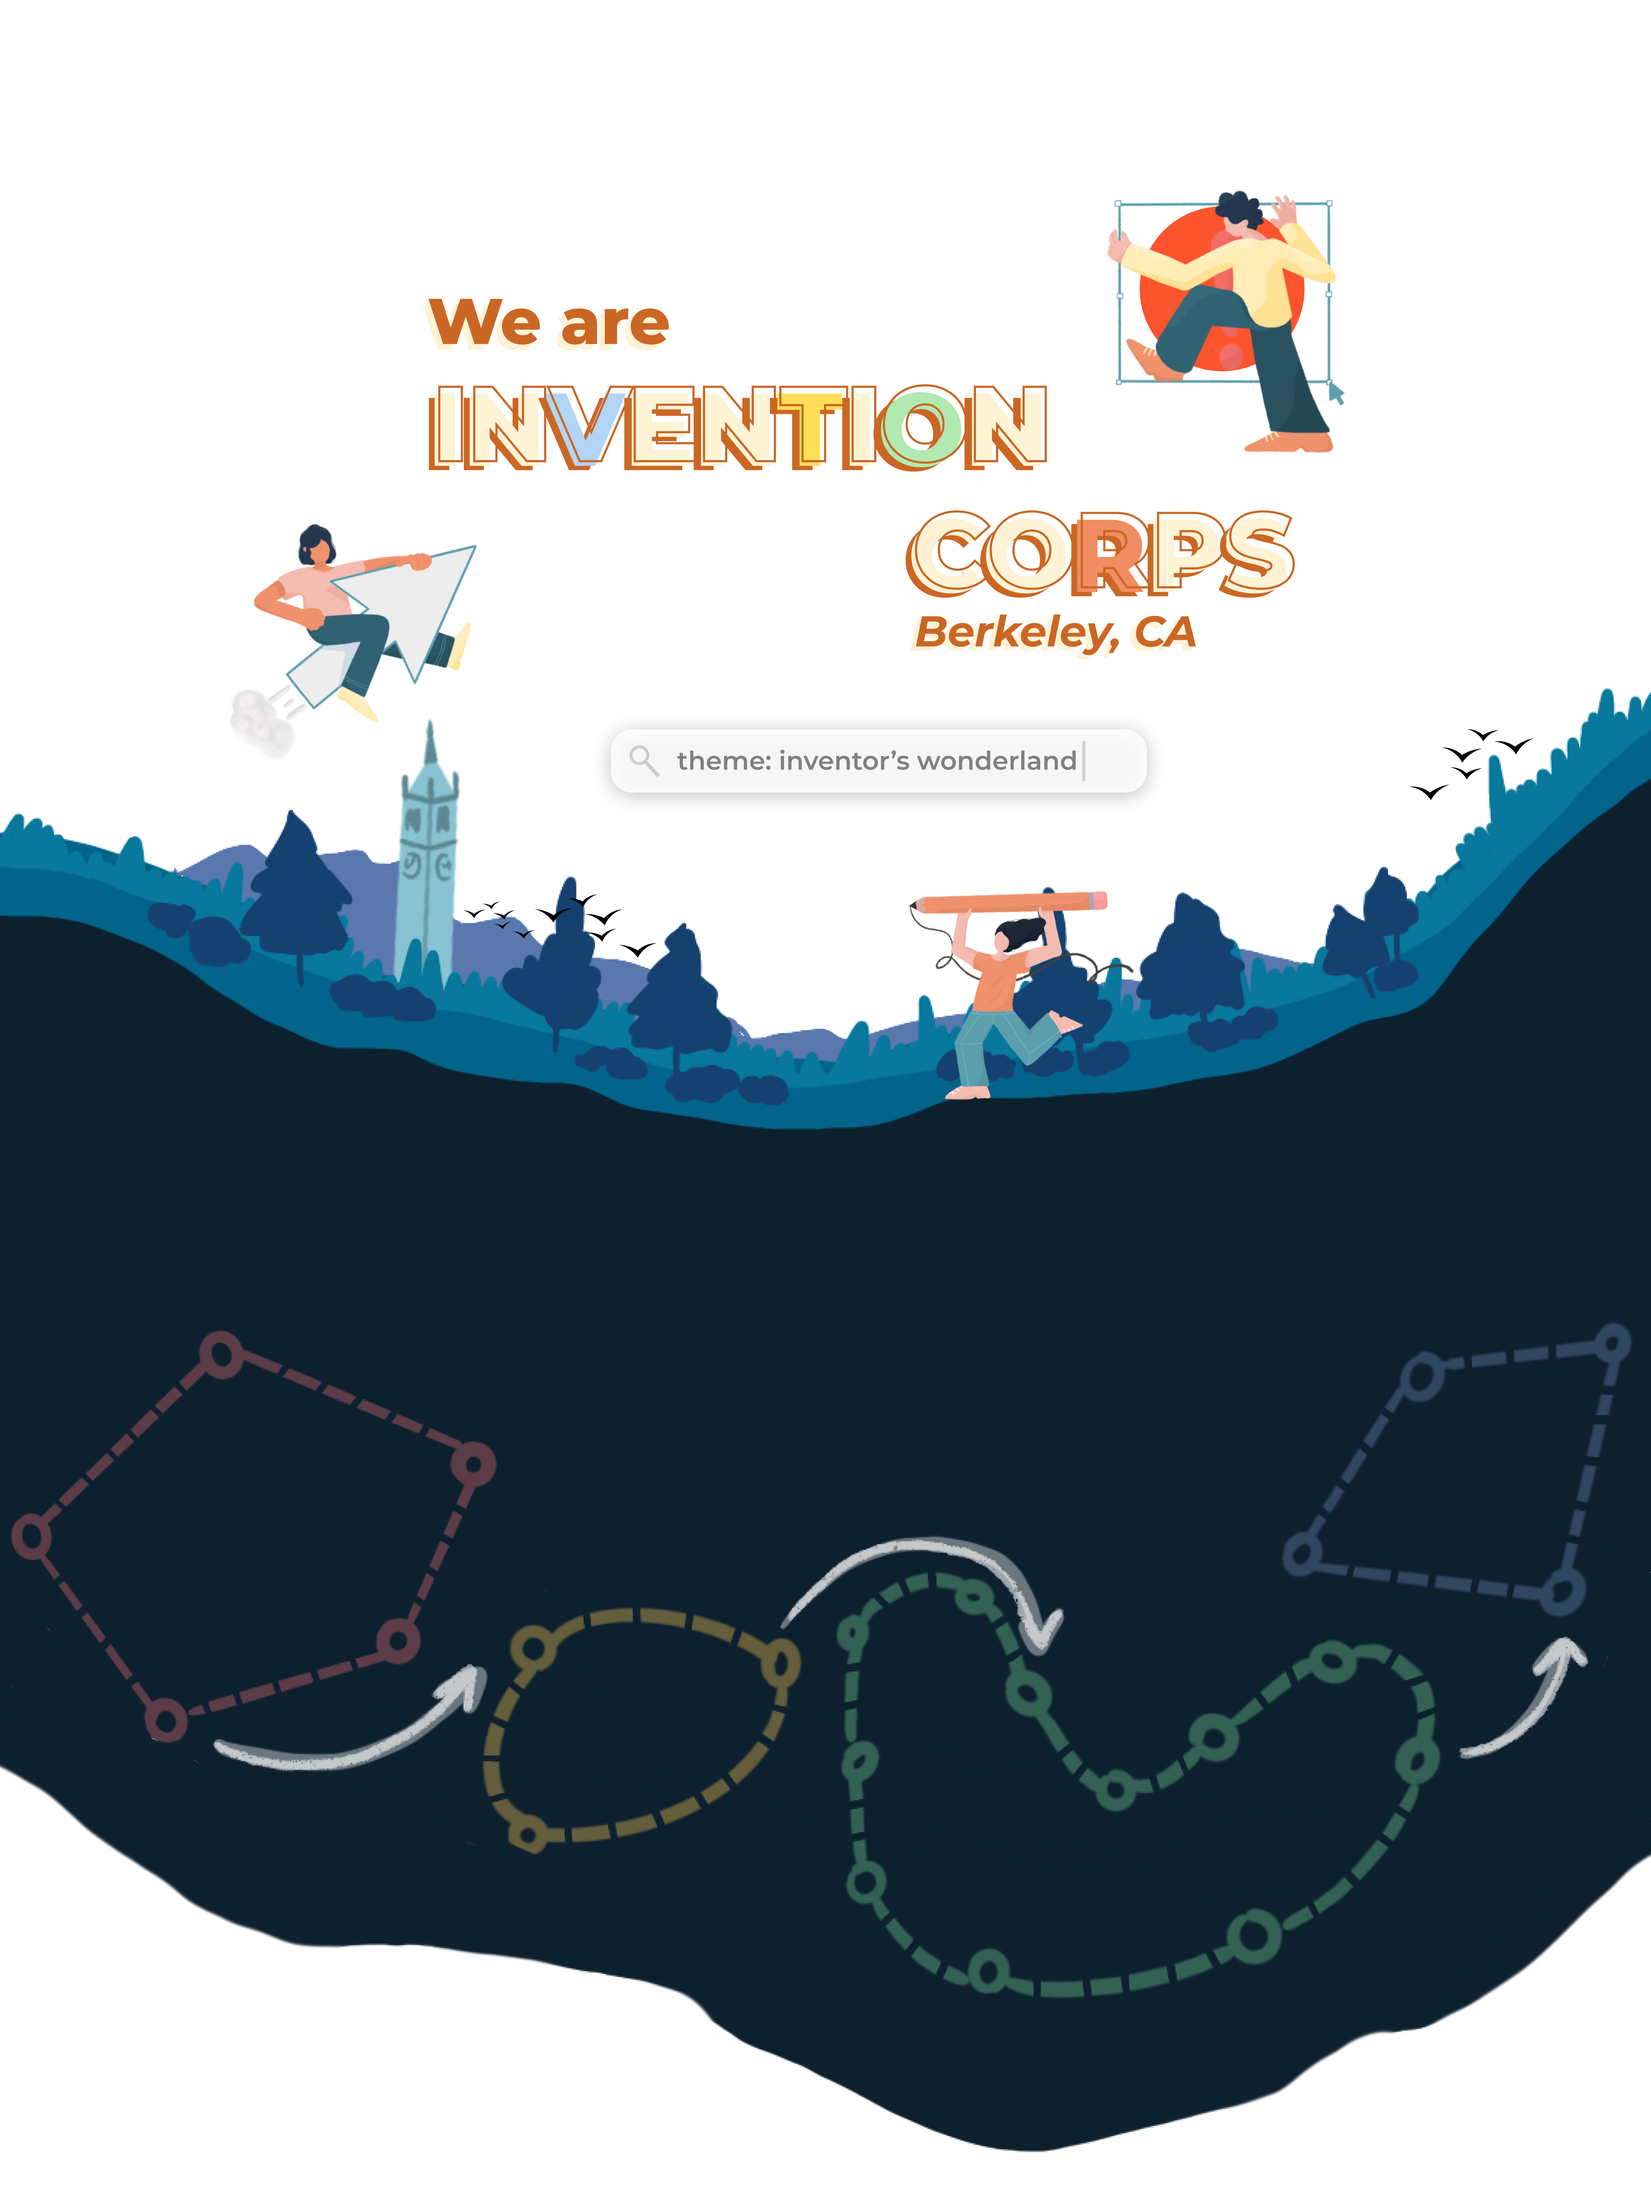
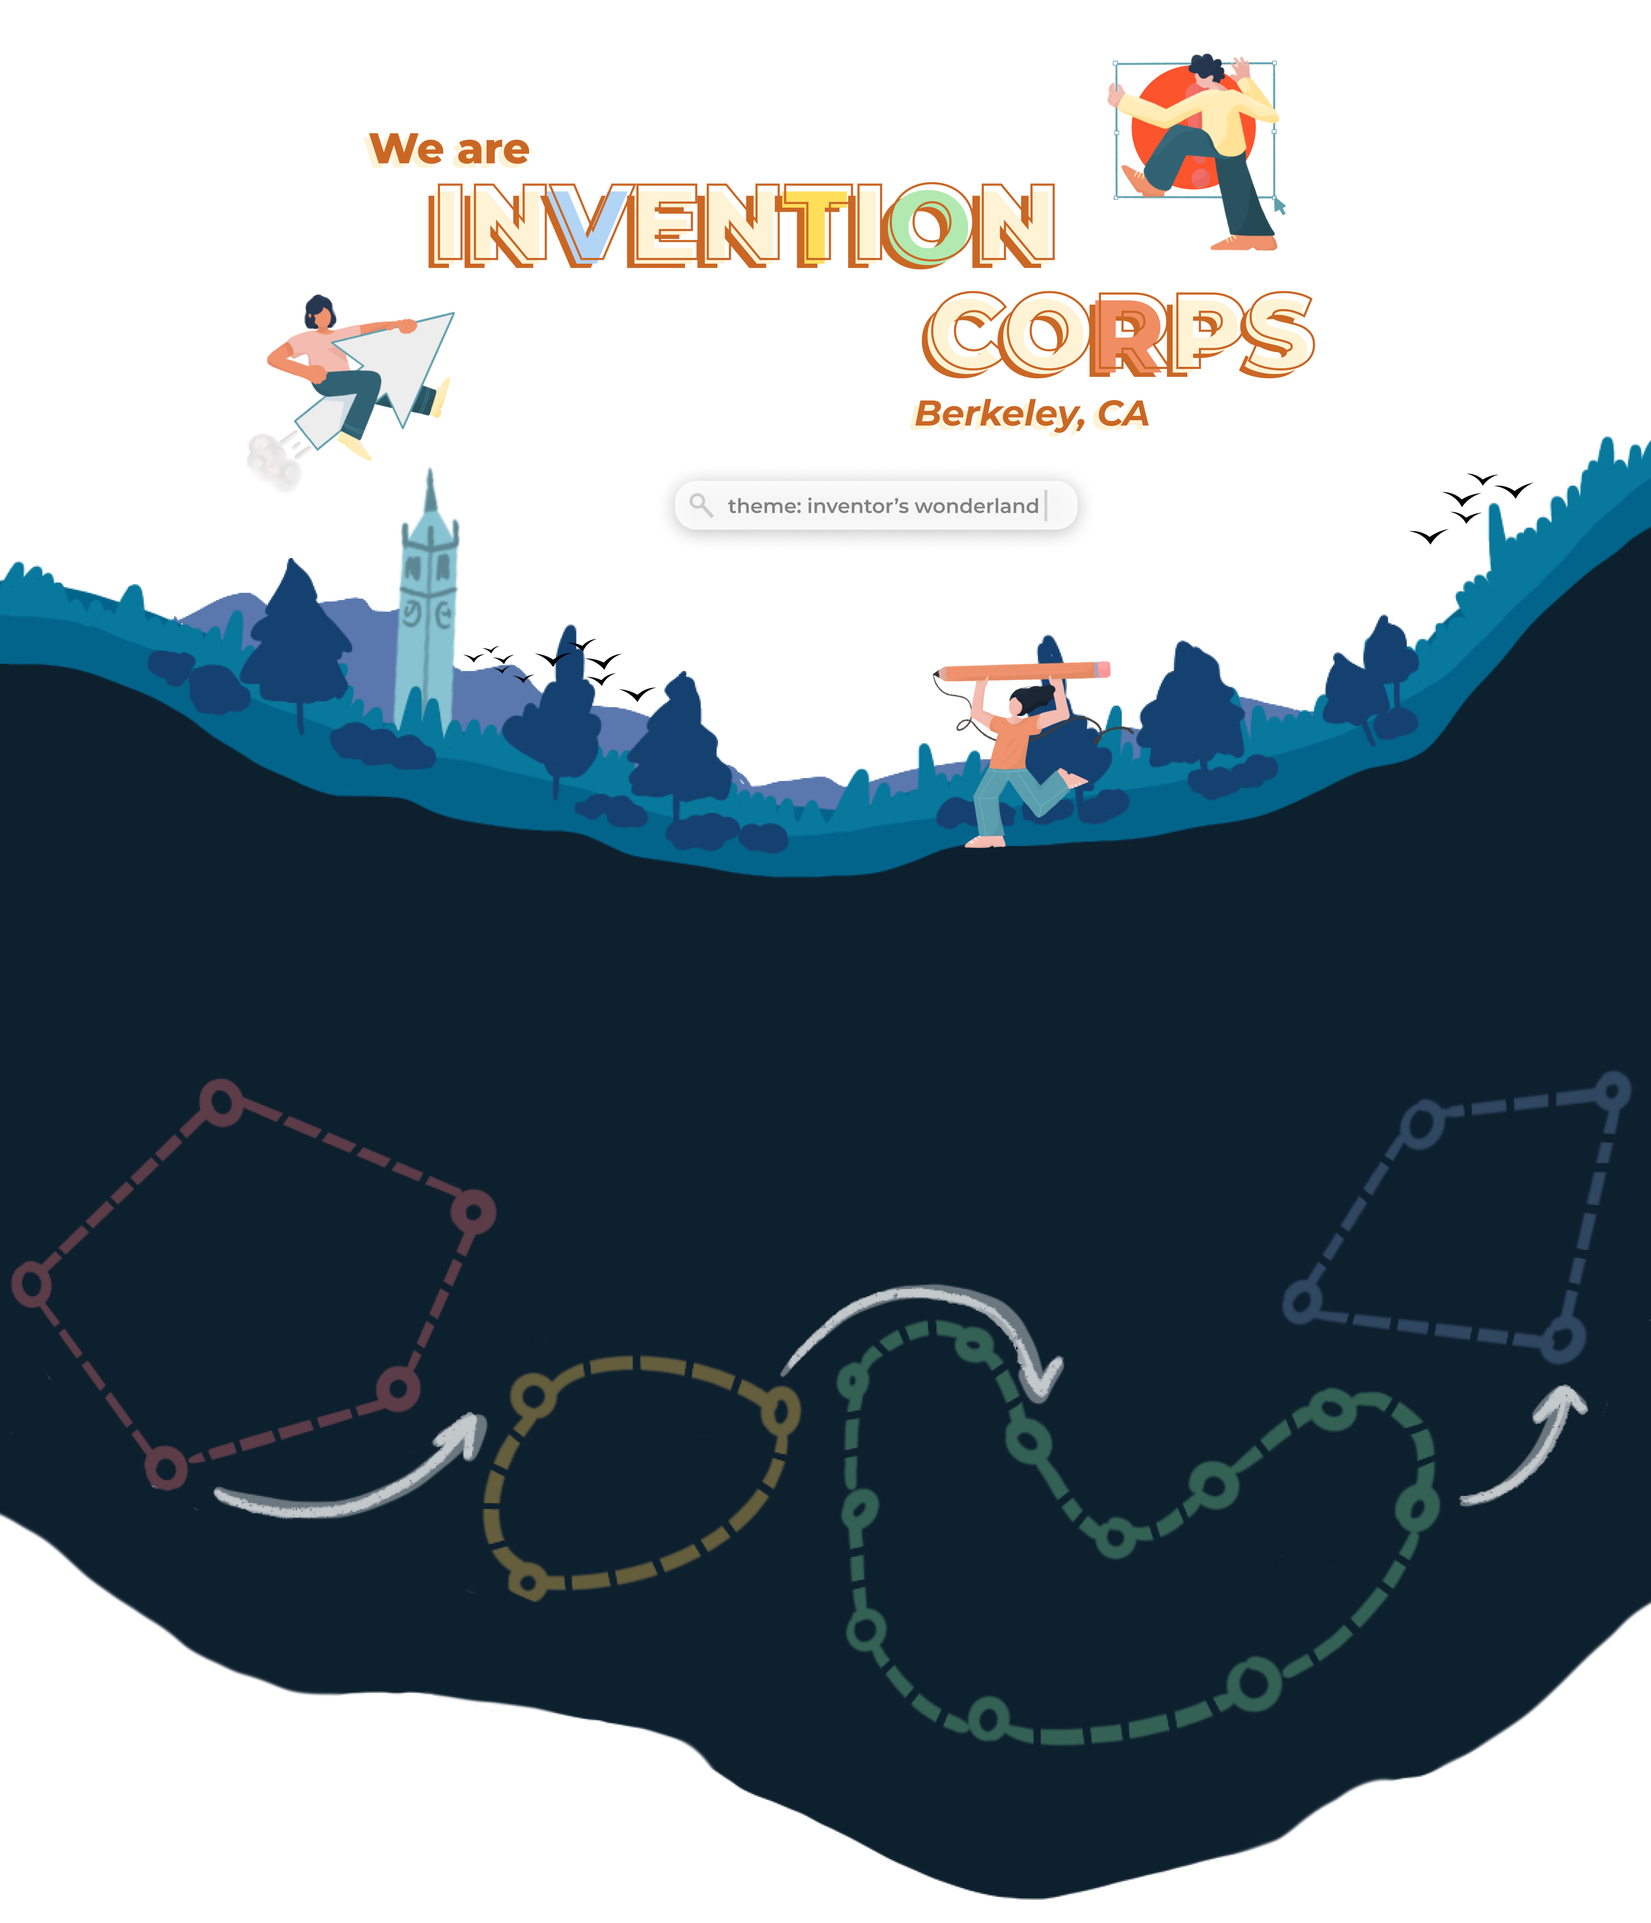
established proportions of splash page

diff --git a/indexv15.html b/indexv15.html
@@ -62,32 +62,57 @@
     </nav>
 
     <!-- Landing Section -->
-    <div class="landing-container">
-        <div class="container">
-            <div class="social-icons">
-                <a href="mailto:inventioncorps@icb.berkeley.edu" target="_blank"><i class="fas fa-envelope"></i></a>
-                <a href="https://www.linkedin.com/company/berkeley-invention-corps/" target="_blank"><i class="fab fa-linkedin"></i></a>
-                <a href="https://www.facebook.com/InventionCorps" target="_blank"><i class="fab fa-facebook-square"></i></a>
-                <a href="https://www.instagram.com/inventioncorps/" target="_blank"><i class="fab fa-instagram"></i></a>
+    <section id="landing-container">
+        <div class="landing-container">
+            <div class="container">
+                <!-- <div class="social-icons">
+                    <a href="mailto:inventioncorps@icb.berkeley.edu" target="_blank"><i class="fas fa-envelope"></i></a>
+                    <a href="https://www.linkedin.com/company/berkeley-invention-corps/" target="_blank"><i class="fab fa-linkedin"></i></a>
+                    <a href="https://www.facebook.com/InventionCorps" target="_blank"><i class="fab fa-facebook-square"></i></a>
+                    <a href="https://www.instagram.com/inventioncorps/" target="_blank"><i class="fab fa-instagram"></i></a>
+                </div> -->
+                <!-- <div class="container d-flex align-items-center justify-content-center">
+                    <div class="landing-text">
+                        <h3><span id="we-are-top" class="landing-text-top">We are</span></h3>
+                        <h3><span id="we-are-bottom" class="landing-text-top">We are</span></h3>
+                        <h1><span class="landing-text-bkd">Invention</span></h1>
+                        <h1><span class="landing-text-bkd">Corps</span></h1>
+                    </div>
+                </div> -->
             </div>
-            <!-- <div class="container d-flex align-items-center justify-content-center">
-                <div class="landing-text">
-                    <h3><span id="we-are-top" class="landing-text-top">We are</span></h3>
-                    <h3><span id="we-are-bottom" class="landing-text-top">We are</span></h3>
-                    <h1><span class="landing-text-bkd">Invention</span></h1>
-                    <h1><span class="landing-text-bkd">Corps</span></h1>
-                </div>
-            </div> -->
+            <img class="scene" data-modifier="30" src="assets/img/mainscrollv15/landscape.png">
+            <img class="scene" data-modifier="0" src="assets/img/mainscrollv15/lower-island.png">
+            <script src="https://s.electerious.com/basicScroll/dist/basicScroll.min.js"></script>
+            <script src="https://static.codepen.io/assets/common/stopExecutionOnTimeout-157cd5b220a5c80d4ff8e0e70ac069bffd87a61252088146915e8726e5d9f147.js"></script>
         </div>
-        <img class="scene" data-modifier="18" src="assets/img/mainscrollv15/landscape.png">
-        <img class="scene" data-modifier="0" src="assets/img/mainscrollv15/lower-island.png">
-        <script src="https://s.electerious.com/basicScroll/dist/basicScroll.min.js"></script>
-        <script src="https://static.codepen.io/assets/common/stopExecutionOnTimeout-157cd5b220a5c80d4ff8e0e70ac069bffd87a61252088146915e8726e5d9f147.js"></script>
-    </div>
+    </section>
 
+    <!-- About Section -->
+    <section id="about">
+        <div class="container">
+            <h2 id ="about-header" class="jumptarget">Inventing ways to make a better world.</h2>
+            <p> We are Invention Corps of Berkeley. As a collective, we are an interdisciplinary group of students driven to create meaningful global impact through human-centered design. We partner with people and organizations with the objective of creating tangible solutions in the realms of society, health, poverty, and the environment. </p>
+        </div>
+    </section>
 
-    <!-- <img src="assets/img/mainscroll1-5/pillar-island.png" alt="Pillar Island" id="pillar-island"> -->
+    <!-- Footer -->
+    <footer>
+        Made with ♥ by the
+        <span> <a href="v1.5/webdevteam.html"> Invention Corps Web Team </a> </span> <br>Copyright © 2020
+    </footer>
 
+    <!-- Bootstrap Scripts -->
+    <script src="https://code.jquery.com/jquery-3.3.1.slim.min.js" integrity="sha384-q8i/X+965DzO0rT7abK41JStQIAqVgRVzpbzo5smXKp4YfRvH+8abtTE1Pi6jizo" crossorigin="anonymous"></script>
+    <script src="https://cdnjs.cloudflare.com/ajax/libs/popper.js/1.14.3/umd/popper.min.js" integrity="sha384-ZMP7rVo3mIykV+2+9J3UJ46jBk0WLaUAdn689aCwoqbBJiSnjAK/l8WvCWPIPm49" crossorigin="anonymous"></script>
+    <script src="https://stackpath.bootstrapcdn.com/bootstrap/4.1.3/js/bootstrap.min.js" integrity="sha384-ChfqqxuZUCnJSK3+MXmPNIyE6ZbWh2IMqE241rYiqJxyMiZ6OW/JmZQ5stwEULTy" crossorigin="anonymous"></script>
+    <!-- Animation Libraries -->
+    <!-- <script src="assets/js/particles.js"></script>
+    <script src="assets/js/app.js"></script> -->
+    <!-- Custom Scripts -->
+    <script src="assets/js/script.js"></script>
+    <script src="assets/js/basicScroll.min.js"></script>
+    <!-- <script src="assets/js/members.js"></script> -->
+</body>
 
    <!-- <section id="landing">
         <div class="container d-flex align-items-center justify-content-center" id="landing-container">
@@ -98,15 +123,17 @@
         </div>
     </section> -->
 
-    <!-- About Section 
-    <section id="about">
-        <div class="container">
-            <h2 id ="about-header" class="jumptarget">Inventing ways to make a better world.</h2>
-            <p>
-                We are Invention Corps of Berkeley. As a collective, we are an interdisciplinary group of students driven to create meaningful global impact through human-centered design. We partner with people and organizations with the objective of creating tangible solutions in the realms of society, health, poverty, and the environment. 
-            </p>
-            <div style="background-image: assets/img/mainscroll1-5/pillar-island.png">
+    <!-- About Section -->
+    <!-- <section id="about">
+        <div id="about">
+            <div class="text-box d-flex align-items-center justify-content-center">
+                <h2 id ="about-header" class="jumptarget">Inventing ways to make a better world.</h2>
+                <p id="about-header" class="jumptarget"> We are Invention Corps of Berkeley. As a collective, we are an interdisciplinary group of students driven to create meaningful global impact through human-centered design. We partner with people and organizations with the objective of creating tangible solutions in the realms of society, health, poverty, and the environment. </p>
             </div>
+        <img class="scene" data-modifier="18" src="assets/img/mainscrollv15/landscape.png">
+        <img class="scene" data-modifier="0" src="assets/img/mainscrollv15/lower-island.png">
+        <script src="https://s.electerious.com/basicScroll/dist/basicScroll.min.js"></script>
+        <script src="https://static.codepen.io/assets/common/stopExecutionOnTimeout-157cd5b220a5c80d4ff8e0e70ac069bffd87a61252088146915e8726e5d9f147.js"></script>
         </div>
     </section> -->
 
@@ -182,24 +209,5 @@
             </div>
         </div>
     </section> -->
-
-    <!-- Footer -->
-    <footer>
-        Made with ♥ by the
-        <span> <a href="v1.5/webdevteam.html"> Invention Corps Web Team </a> </span> <br>Copyright © 2020
-    </footer>
-
-    <!-- Bootstrap Scripts -->
-    <script src="https://code.jquery.com/jquery-3.3.1.slim.min.js" integrity="sha384-q8i/X+965DzO0rT7abK41JStQIAqVgRVzpbzo5smXKp4YfRvH+8abtTE1Pi6jizo" crossorigin="anonymous"></script>
-    <script src="https://cdnjs.cloudflare.com/ajax/libs/popper.js/1.14.3/umd/popper.min.js" integrity="sha384-ZMP7rVo3mIykV+2+9J3UJ46jBk0WLaUAdn689aCwoqbBJiSnjAK/l8WvCWPIPm49" crossorigin="anonymous"></script>
-    <script src="https://stackpath.bootstrapcdn.com/bootstrap/4.1.3/js/bootstrap.min.js" integrity="sha384-ChfqqxuZUCnJSK3+MXmPNIyE6ZbWh2IMqE241rYiqJxyMiZ6OW/JmZQ5stwEULTy" crossorigin="anonymous"></script>
-    <!-- Animation Libraries -->
-    <!-- <script src="assets/js/particles.js"></script>
-    <script src="assets/js/app.js"></script> -->
-    <!-- Custom Scripts -->
-    <script src="assets/js/script.js"></script>
-    <script src="assets/js/basicScroll.min.js"></script>
-    <!-- <script src="assets/js/members.js"></script> -->
-</body>
 
 </html>

diff --git a/assets/css/mainscrollv15.scss b/assets/css/mainscrollv15.scss
@@ -20,6 +20,32 @@ body {
     background: linear-gradient($grad-1, $grad-2, $grad-3, $grad-4, $grad-5) no-repeat;
 }
 
+a {
+    color: white;
+}
+
+h2 {
+    color: white;
+}
+
+p {
+    color: white;
+}
+
+// h2 {
+//     z-index: 100;
+//     position: absolute;
+//     color: white;
+//     font-size: 1.5vw;
+//     font-weight: bold;
+// }
+
+// p {
+//     z-index: 75;
+//     color: white;
+//     font-size: 1vw;
+// }
+
 // SOCIAL ICONS
 
 .social-icons {
@@ -45,43 +71,37 @@ body {
     color: $blue;
 }
 
-//
-
-a {
-    color: white;
-}
-
 // LANDING TITLE
 
 #landing-container {
     height: 75%;
 }
 
-.landing-text > h3 {
-    font-weight: 800;
-    font-size: 1.75rem;
-    padding-bottom: 1rem;
-    padding-top: 3rem;
-}
+// .landing-text > h3 {
+//     font-weight: 800;
+//     font-size: 1.75rem;
+//     padding-bottom: 1rem;
+//     padding-top: 3rem;
+// }
 
-.landing-text > h1 {
-    font-weight: 800;
-    text-transform: uppercase;
-    font-size: 2rem;
-    // border-bottom: 10px solid $blue;
-}
+// .landing-text > h1 {
+//     font-weight: 800;
+//     text-transform: uppercase;
+//     font-size: 2rem;
+//     // border-bottom: 10px solid $blue;
+// }
 
-.landing-text-top {
-    color: $title-light;
-    padding: 0 0.75rem;
-    text-align: center;
-}
+// .landing-text-top {
+//     color: $title-light;
+//     padding: 0 0.75rem;
+//     text-align: center;
+// }
 
-.landing-text-bkd {
-    color: $title-dark;
-    padding: 0 0.75rem;
-    text-align: center;
-}
+// .landing-text-bkd {
+//     color: $title-dark;
+//     padding: 0 0.75rem;
+//     text-align: center;
+// }
 
 // ABOUT & PILLARS
 
@@ -90,4 +110,30 @@ a {
     width: 100%;
 	transform: translateY(var(--translateY));
 	will-change: transform;
+}
+
+// #about {
+//     position: relative;
+// }
+
+// MEDIA QUERIES
+
+// Small devices (landscape phones, 576px and up)
+@media (min-width: 576px) {
+    
+}
+
+// Medium devices (tablets, 768px and up)
+@media (min-width: 768px) {
+    
+}
+
+// Large devices (desktops, 992px and up)
+@media (min-width: 992px) {
+
+}
+
+// Extra large devices (large desktops, 1200px and up)
+@media (min-width: 1200px) {
+    
 }

diff --git a/assets/css/mainscrollv15.css b/assets/css/mainscrollv15.css
@@ -3,6 +3,18 @@ body {
   background: linear-gradient(#F8E8B2, #F4CCBE, #E58F7C, #6376A8, #202020) no-repeat;
 }
 
+a {
+  color: white;
+}
+
+h2 {
+  color: white;
+}
+
+p {
+  color: white;
+}
+
 .social-icons {
   width: 100%;
   display: -webkit-box;
@@ -33,37 +45,8 @@ body {
   color: #99CCFF;
 }
 
-a {
-  color: white;
-}
-
 #landing-container {
   height: 75%;
-}
-
-.landing-text > h3 {
-  font-weight: 800;
-  font-size: 1.75rem;
-  padding-bottom: 1rem;
-  padding-top: 3rem;
-}
-
-.landing-text > h1 {
-  font-weight: 800;
-  text-transform: uppercase;
-  font-size: 2rem;
-}
-
-.landing-text-top {
-  color: #FFF3D6;
-  padding: 0 0.75rem;
-  text-align: center;
-}
-
-.landing-text-bkd {
-  color: #CB6724;
-  padding: 0 0.75rem;
-  text-align: center;
 }
 
 .scene {

diff --git a/assets/css/stylesv15.scss b/assets/css/stylesv15.scss
@@ -6,13 +6,7 @@ $green: #99CC99;
 $blue: #99CCFF;
 $gray: #787878;
 $black: #202020;
-$grad-1: #F8E8B2;
-$grad-2: #F4CCBE;
-$grad-3: #E58F7C;
-$grad-4: #6376A8;
-$grad-5: #202020;
-$title-light: #FFF3D6;
-$title-dark: #CB6724;
+
 
 // CSS RESET
 
